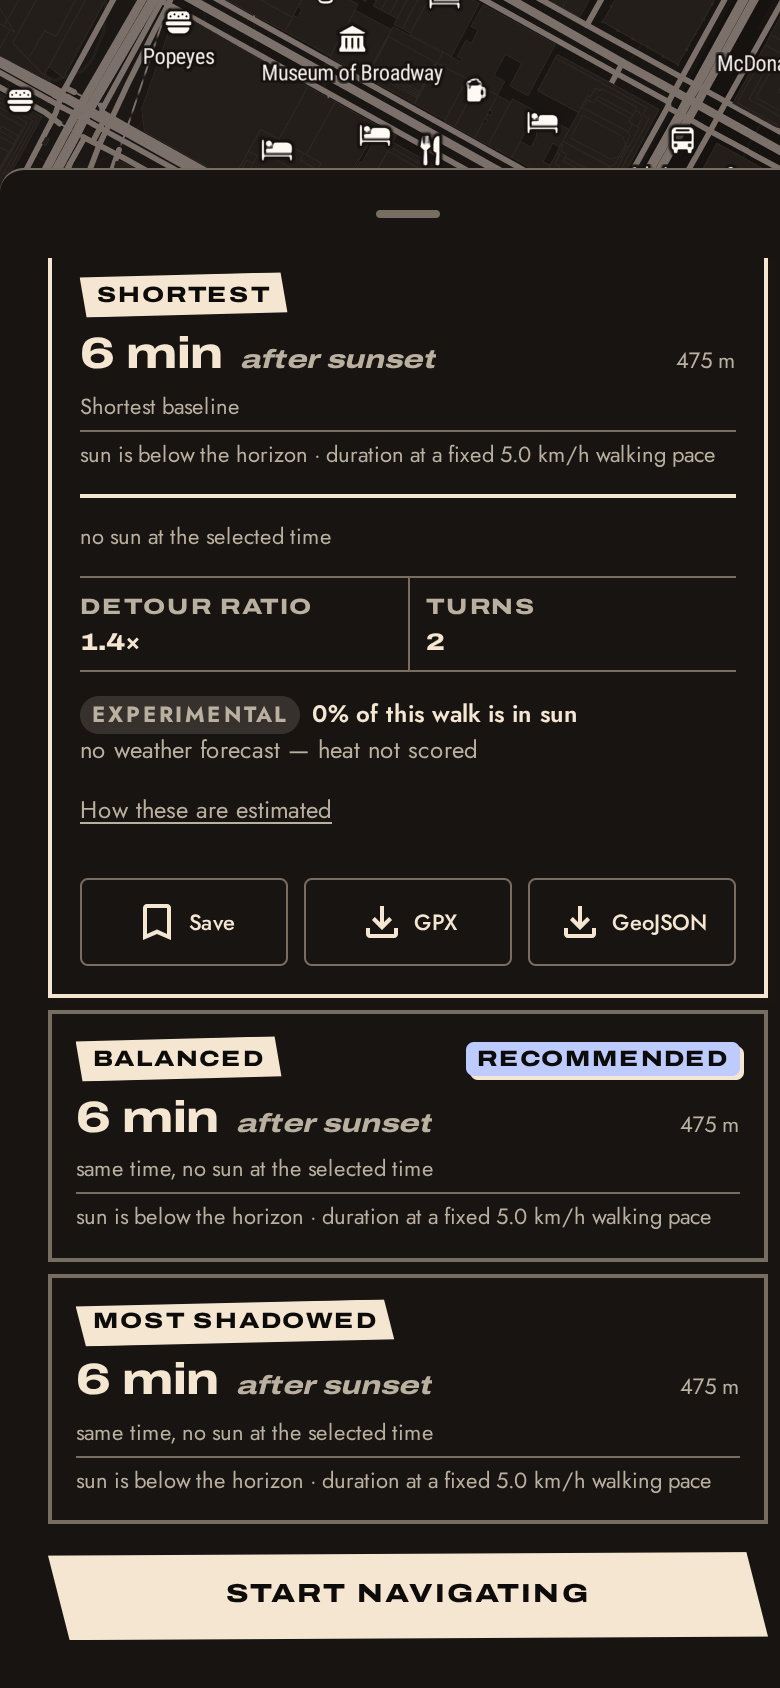
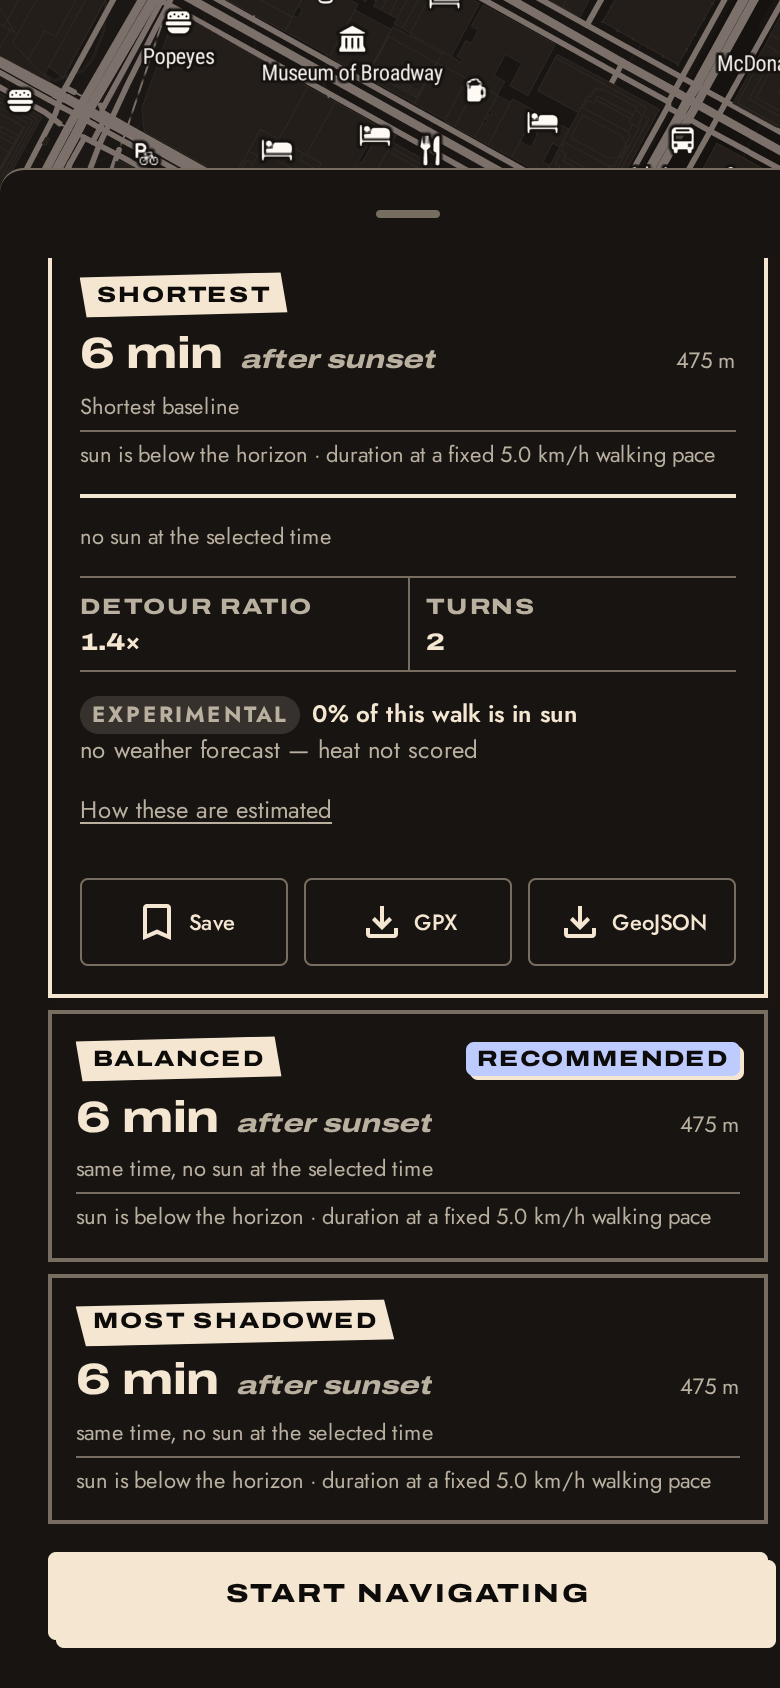
fix(design): R5a owner calls — square start button, published line colours and transit basis in the spec

Changed region(s): [[0.0615, 0.8934, 1.0, 0.9858], [0.1538, 0.0616, 0.1846, 0.0924]]

diff --git a/app/globals.css b/app/globals.css
@@ -475,19 +475,25 @@ body {
      ink plate also takes the small-host ring: page ink outside its square box. */
   .umbra-plate--ink:focus-visible { outline: 2px solid var(--color-ink); outline-offset: 2px; }
 
-  /* The trip's one primary action: a full-width ink plate, square 44px+ hit area. */
-  .umbra-start-plate {
+  /* The trip's one primary action: a control, so square and untilted (D4) — an
+     ink block with the hard offset shadow, ≥44px tall, focus ringed outside it. */
+  .umbra-start-button {
     display: flex;
     width: 100%;
     min-height: 2.75rem;
     align-items: center;
     justify-content: center;
     padding: 0.75rem 1rem;
+    border-radius: var(--radius-sm);
+    background: var(--color-ink);
+    color: var(--color-on-ink);
+    box-shadow: var(--shadow-hard-2);
     font-family: var(--font-label);
     font-weight: 800;
     font-size: var(--text-small);
     letter-spacing: 0.08em;
   }
+  .umbra-start-button:focus-visible { outline: 2px solid var(--color-ink); outline-offset: 2px; }
 
   .umbra-kicker {
     display: inline-block;

diff --git a/app/components/DirectionsPanel.tsx b/app/components/DirectionsPanel.tsx
@@ -13,7 +13,6 @@ import RouteCard from "./RouteCard";
 import SolarPill from "./SolarPill";
 import type { ReactNode } from "react";
 import SavedRoutesSection from "./SavedRoutesSection";
-import Plate from "./ui/Plate";
 
 /**
  * The collapsed trip bar: once options exist, the planning form folds into one
@@ -636,9 +635,9 @@ export default function DirectionsPanel({
           </div>
 
           {onStartNavigation && routes.length > 0 && !selectedRoute?.partial && (
-            <Plate as="button" tone="ink" onClick={onStartNavigation} className="umbra-start-plate mt-2">
+            <button type="button" onClick={onStartNavigation} className="umbra-start-button mt-2">
               START NAVIGATING
-            </Plate>
+            </button>
           )}
         </div>
       )}

diff --git a/app/components/FloatingRouteCards.tsx b/app/components/FloatingRouteCards.tsx
@@ -4,7 +4,6 @@ import type { RouteOption } from "../lib/routing";
 import { shortestRoute } from "../lib/routeTradeoff";
 import RouteCard from "./RouteCard";
 import SolarPill from "./SolarPill";
-import Plate from "./ui/Plate";
 
 interface FloatingRouteCardsProps {
   routes: RouteOption[];
@@ -93,9 +92,9 @@ export default function FloatingRouteCards({
 
         {/* Start navigating */}
         {onStartNavigation && !selectedRoute?.partial && (
-          <Plate as="button" tone="ink" onClick={onStartNavigation} className="umbra-start-plate">
+          <button type="button" onClick={onStartNavigation} className="umbra-start-button">
             START NAVIGATING
-          </Plate>
+          </button>
         )}
       </div>
     </div>

diff --git a/docs/design/language.md b/docs/design/language.md
@@ -6,7 +6,7 @@
 
 - **Sun/exposure/heat:** one signal-orange ramp. Orange means the sun, including the now-marker, sun share of a split bar, UV and heat data, and the arrival sun-time stamp. Orange is never a generic recommended badge, CTA or decorative line.
 - **Shade:** cool blue ramp, visually aligned with the painted blue shadow. The map shadow renderer stays blue-dominant after compositing as required by `CLAUDE.md` invariant #5; R4 verifies every basemap and paint change. **Walking route:** neutral ink line on a paper casing by day, cream line on a warm-black casing by night (the casing always contrasts with the line; R4b, owner-approved), with separate start/end marks, so it does not borrow the shade hue. Route, pins and stops follow the basemap theme, not the UI override.
-- **Trees/canopy:** green ramp. The existing map paint is a renderer constant until R4 calibrates it; app chips, cards and legend use the matching semantic role. **Rain/shelter:** purple ramp. **Danger/errors:** red ramp. Transit lines may use blue, green and yellow accents only to identify actual lines; each line also has a letter/number bullet.
+- **Trees/canopy:** green ramp. The existing map paint is a renderer constant until R4 calibrates it; app chips, cards and legend use the matching semantic role. **Rain/shelter:** purple ramp. **Danger/errors:** red ramp. Transit lines use their own published colours (the N stays yellow, the L grey) so a card matches the line the map draws; each line also has a letter/number bullet, and its identifier takes whichever ink reads at 4.5:1 on that colour, or sits in a ring of the colour when neither does. The blue, green and yellow quartets below remain the `LineBullet` primitive's reference bullets.
 - **Grounds:** day paper `#EFE4D2` with panel `#F8EFDF` and ink `#1B1512`; night warm black `#0E0C0B` with panel `#171412` and cream ink `#F4E6D1`. Neither theme relies on transparent cards over the map for reading.
 - **Automatic theme:** day when the app's solar altitude for the selected map place/time is above 0°, night at or below 0°. Settings may force either **UI** theme and persist it. The **basemap always follows solar altitude**, so forcing dark UI during the day retains the daylight basemap and its tested shadow pixels. The Settings copy must explain this scope. R2 implements the state and tests; R4 implements basemap switching.
 
@@ -48,7 +48,7 @@ Use a small irregular quadrilateral for **decorative** kicker plates and stamps;
 
 ## Component recipes
 
-- **Route card:** small neutral kicker plate → duration and shade verdict in square tabular numbers → cool/sun split bar with its basis **distance share** stated → one plain trade-off line → source, scope and uncertainty caption. When the sun is below the horizon, omit the daylight shade percentage and split bar and say why. Recommendation is a shade or neutral label, never orange. Transit legs get line bullets with identifiers.
+- **Route card:** small neutral kicker plate → duration and shade verdict in square tabular numbers → cool/sun split bar with its basis stated (**distance share** for a walk, **time outdoors share** for a transit trip, whose figure weights walks and a sampled stop wait by seconds) → one plain trade-off line → source, scope and uncertainty caption. When the sun is below the horizon, omit the daylight shade percentage and split bar and say why. Recommendation is a shade or neutral label, never orange. Transit legs get line bullets with identifiers. The start action is a control: a square ink button with the hard offset shadow, never a clipped or tilted plate.
 - **Timeline:** one selected local time, a sun-path diagram, and a timetable ruler. The orange dot is solar data; unsampled or unavailable periods have explicit labels rather than reading as zero. A day/night change follows selected time, not wall-clock time.
 - **Search:** one solid search pill, ≥44px tall, with a directory-style result list. Provider policy remains binding: Nominatim runs on explicit submit, while permitted Foursquare suggestions may appear during typing. Never imply a missing rating or provider result exists.
 - **Arrival:** postcard title and umbra-disc stamp above one sun-time verdict. Its caption keeps the fixed pace, walk scope, any excluded transit ride and shadow-estimate uncertainty with the number. If exposure is unknown, no bar or invented sun minutes appear.

diff --git a/docs/tracks/TRACK_R.md b/docs/tracks/TRACK_R.md
@@ -31,8 +31,9 @@ inspiration; the public mirror publishes everything here.
 - **Done:** R0 (#120), R1 (#122), R2 (#127), R3 (#132), R4a (#139) and R4b (#141) merged.
   R5a is the first consumer of R3's primitives: the option on a `Kicker plated`, `Tag` for
   Recommended (shade, or rain on rain cards; never orange), `LineBullet` per transit leg, and
-  the start action as `Plate as="button" tone="ink"` (`Plate` now takes `button`/`a`, #128;
-  a focused ink plate also takes the page-ink outline, since its cream band matches the page).
+  `Plate` now takes `button`/`a` (#128; a focused ink plate also takes the page-ink outline,
+  since its cream band matches the page), though the start action ended up a square ink
+  `.umbra-start-button` by owner call.
   `LineBullet accent` fills with the line's published colour; `lib/lineBulletInk.ts` picks the
   identifier ink by WCAG contrast (`--color-line-ink-{dark,light}`), or rings the identifier
   when neither reaches 4.5:1 (the 7's purple, the J/Z brown). The split bar is square and
@@ -70,11 +71,10 @@ inspiration; the public mirror publishes everything here.
   (owner, R4b; `language.md` amended). Overlays follow the basemap theme, popups and
   panels the UI theme. R4a maps all trail and bike-route lines to the neutral path role (their
   magenta had no 2.0 meaning), and keeps outdoor-v2's residential wash translucent (`tint`).
-- **Blocked on:** owner visual review of R5a (`docs/design/shots/r5/`). Open owner calls:
-  the ink start plate is clipped like the decorative plates (hit area stays square), and
-  transit bullets use the line's published colour rather than the three reference quartets.
-  The transit bar's basis reads "time outdoors share" where `language.md` says "distance
-  share": the figure is time-weighted, so the recipe wording needs the amendment.
+- **Blocked on:** owner visual review of R5a (`docs/design/shots/r5/`). Owner calls settled
+  in review and written into `language.md`: transit bars say "time outdoors share"; the
+  start action is a square ink button with the hard shadow, not a clipped plate (D4); transit
+  bullets keep each line's published colour (N yellow, L grey) so cards match the map.
   Still open from R4b: hollow A/filled B swap at night; the opaque night route covers labels.
 - **Next action:** R5b (#143) — directions chrome and navigation status, with #126.
 - **Last verified (R5a):** 2026-09-30 on Node 24; lint (0 errors), typecheck, 1,742 unit
